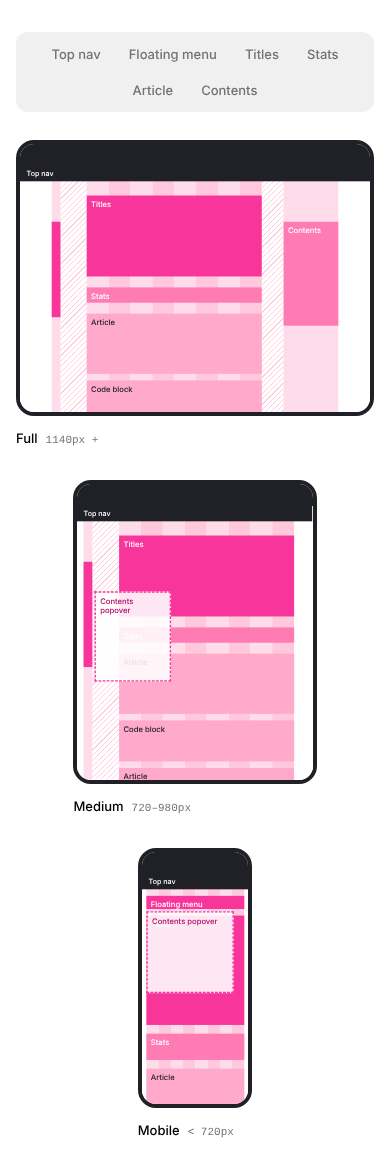
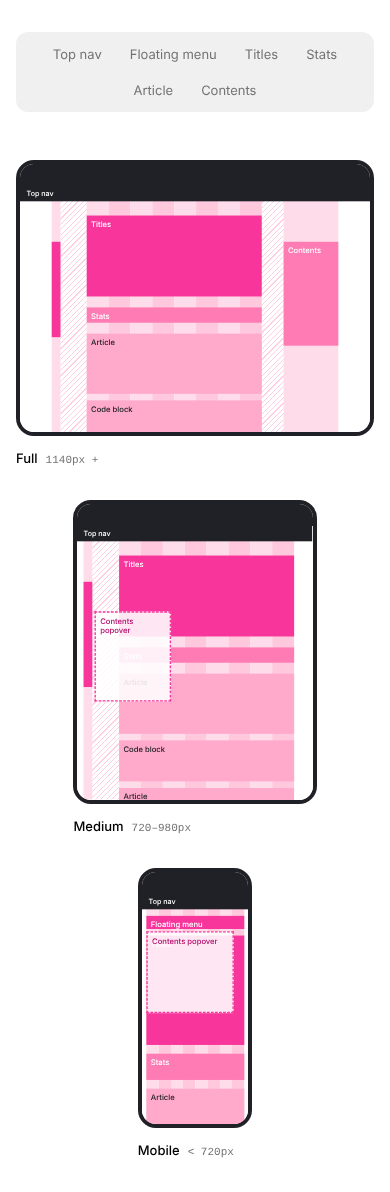
More space between tabs and frames; regular weight tabs
Claude-Session: https://claude.ai/code/session_01XsNnNDTsha9dbWBQaohYJh

diff --git a/src/ResponsiveLayoutMap.css b/src/ResponsiveLayoutMap.css
@@ -23,7 +23,7 @@
   display: flex;
   flex-direction: column;
   align-items: center;
-  gap: 40px;
+  gap: 80px;
   width: 100%;
   font-family: "Geist", ui-sans-serif, system-ui, -apple-system, sans-serif;
   color: var(--rlm-foreground);
@@ -43,7 +43,7 @@
 .rlm-seg button {
   border: 0;
   background: transparent;
-  font-weight: 500;
+  font-weight: 400;
   font-size: 14px;
   line-height: 20px;
   font-family: inherit;
@@ -166,7 +166,7 @@
 }
 
 @media (max-width: 640px) {
-  .rlm { gap: 28px; }
+  .rlm { gap: 48px; }
   .rlm-seg button { min-width: 0; padding: 6px 12px; font-size: 13px; }
 }
 
